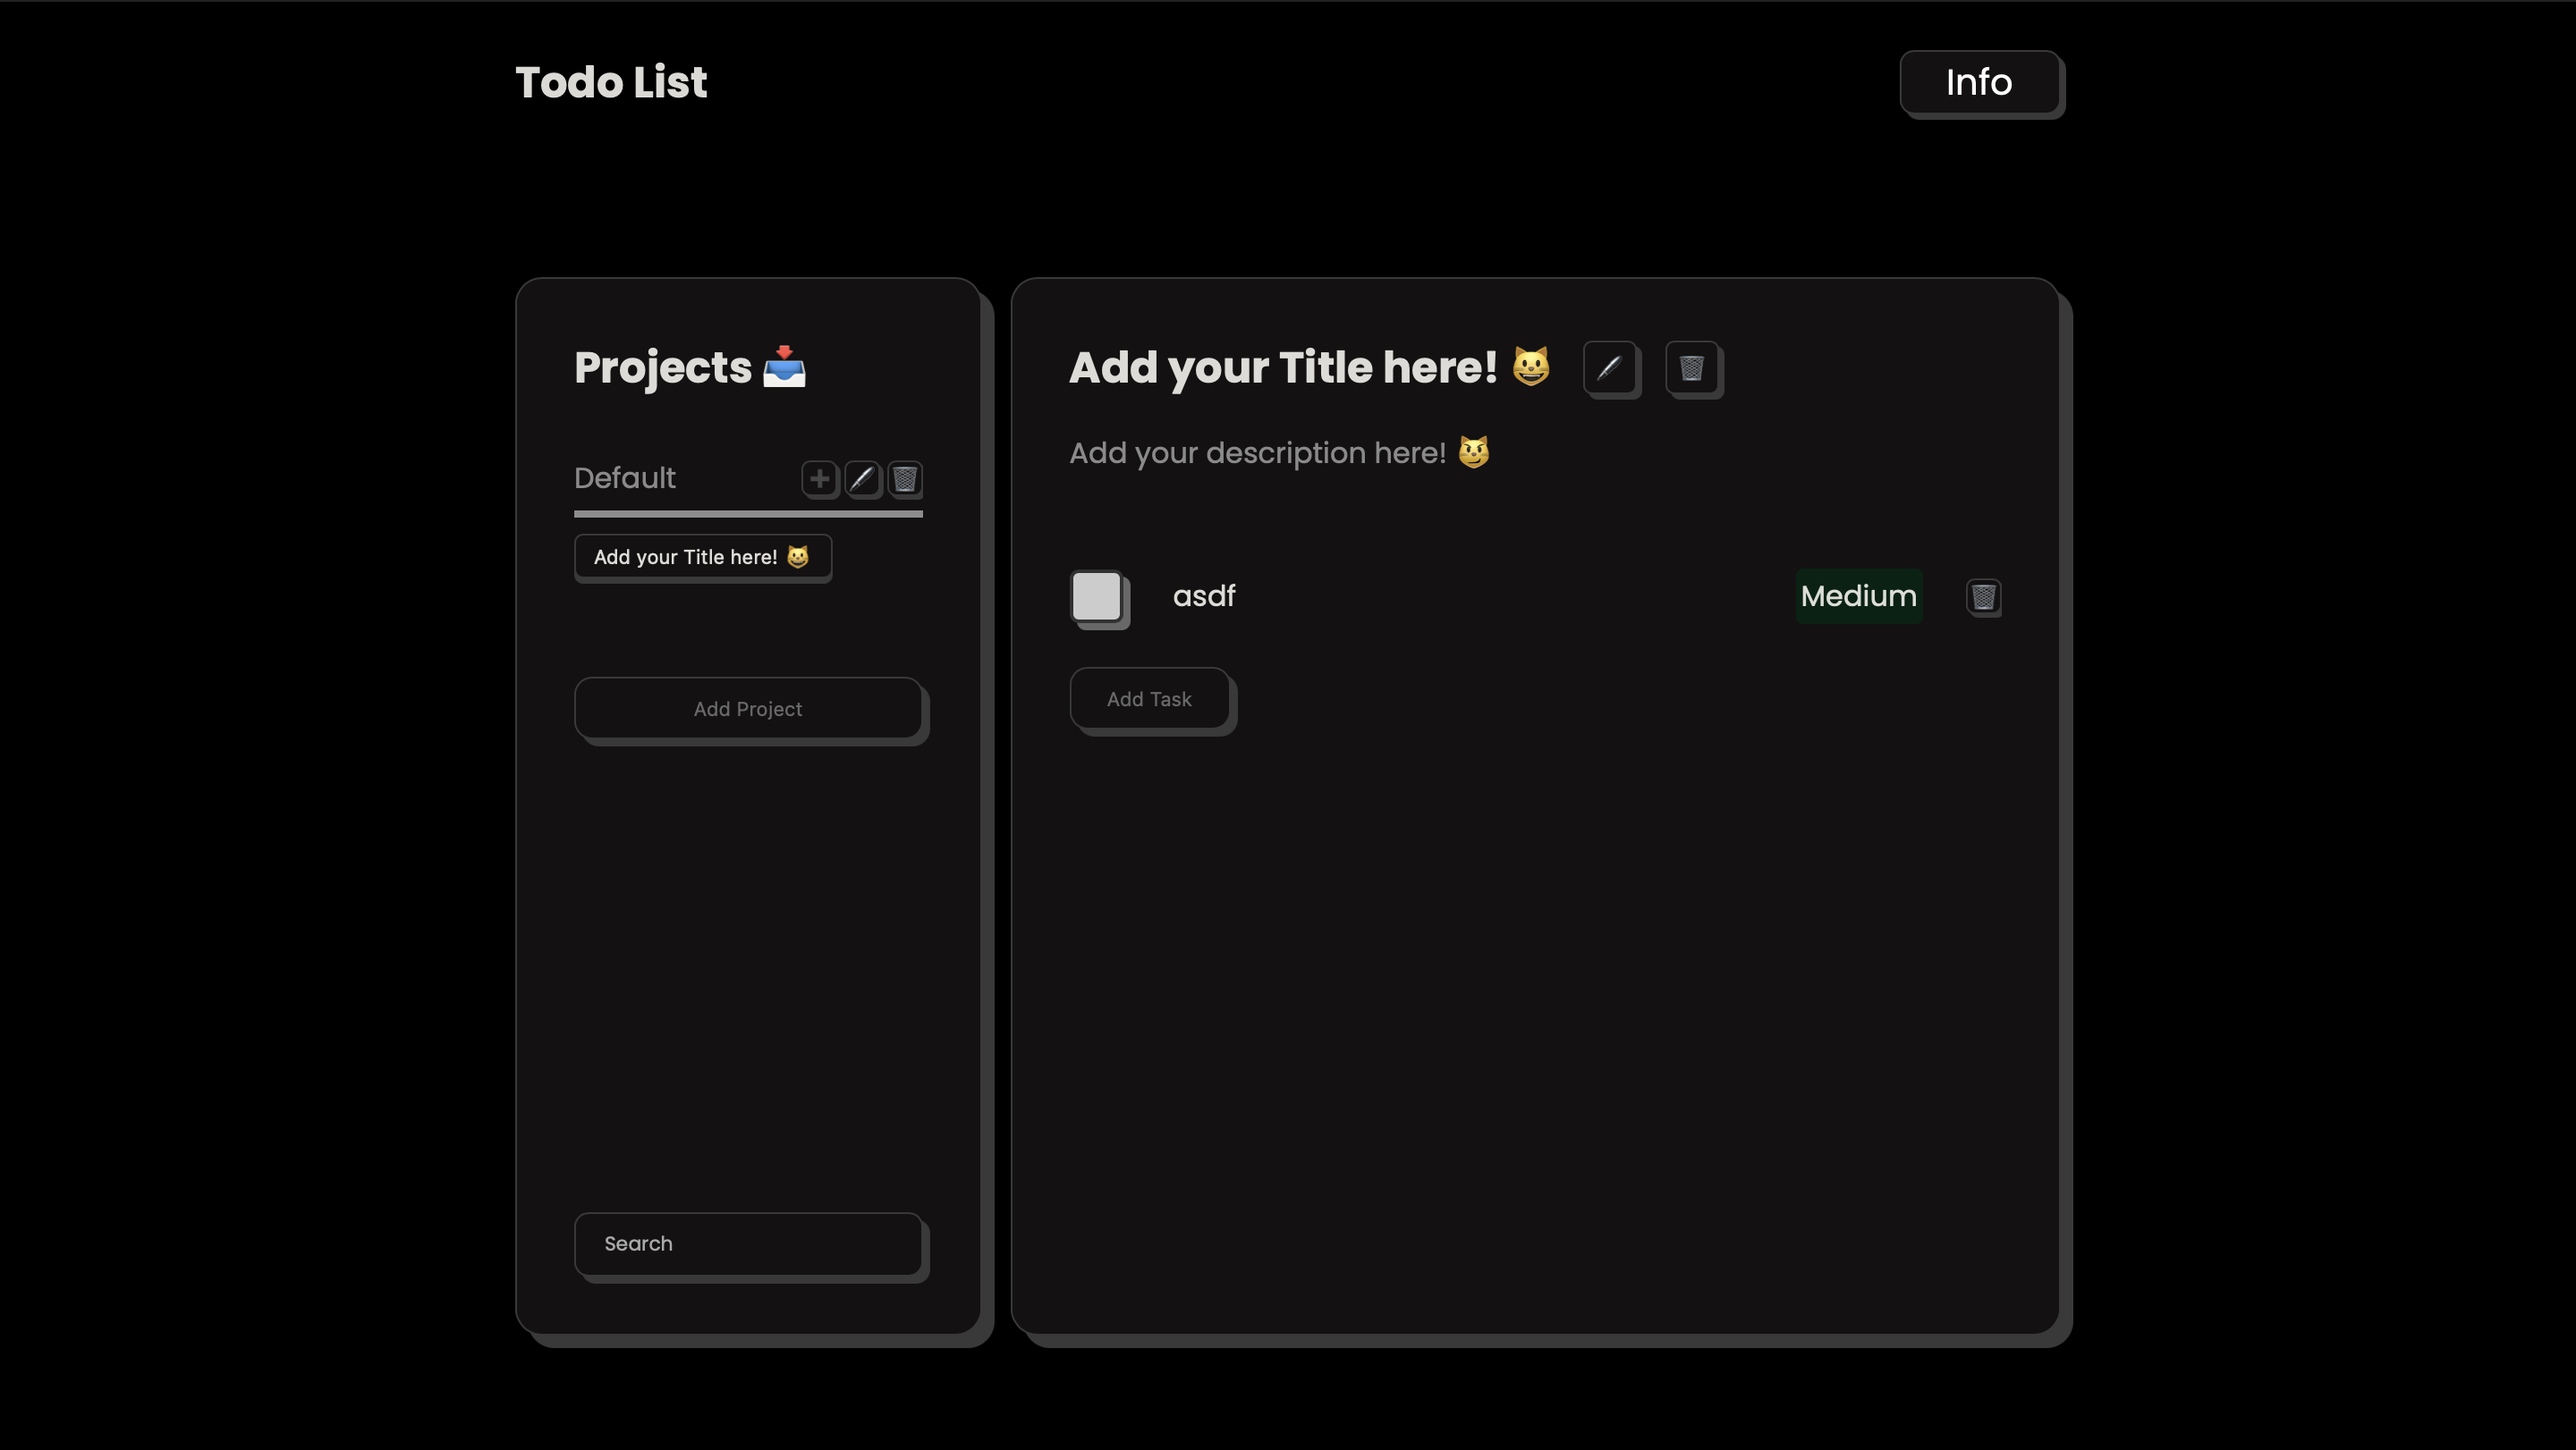
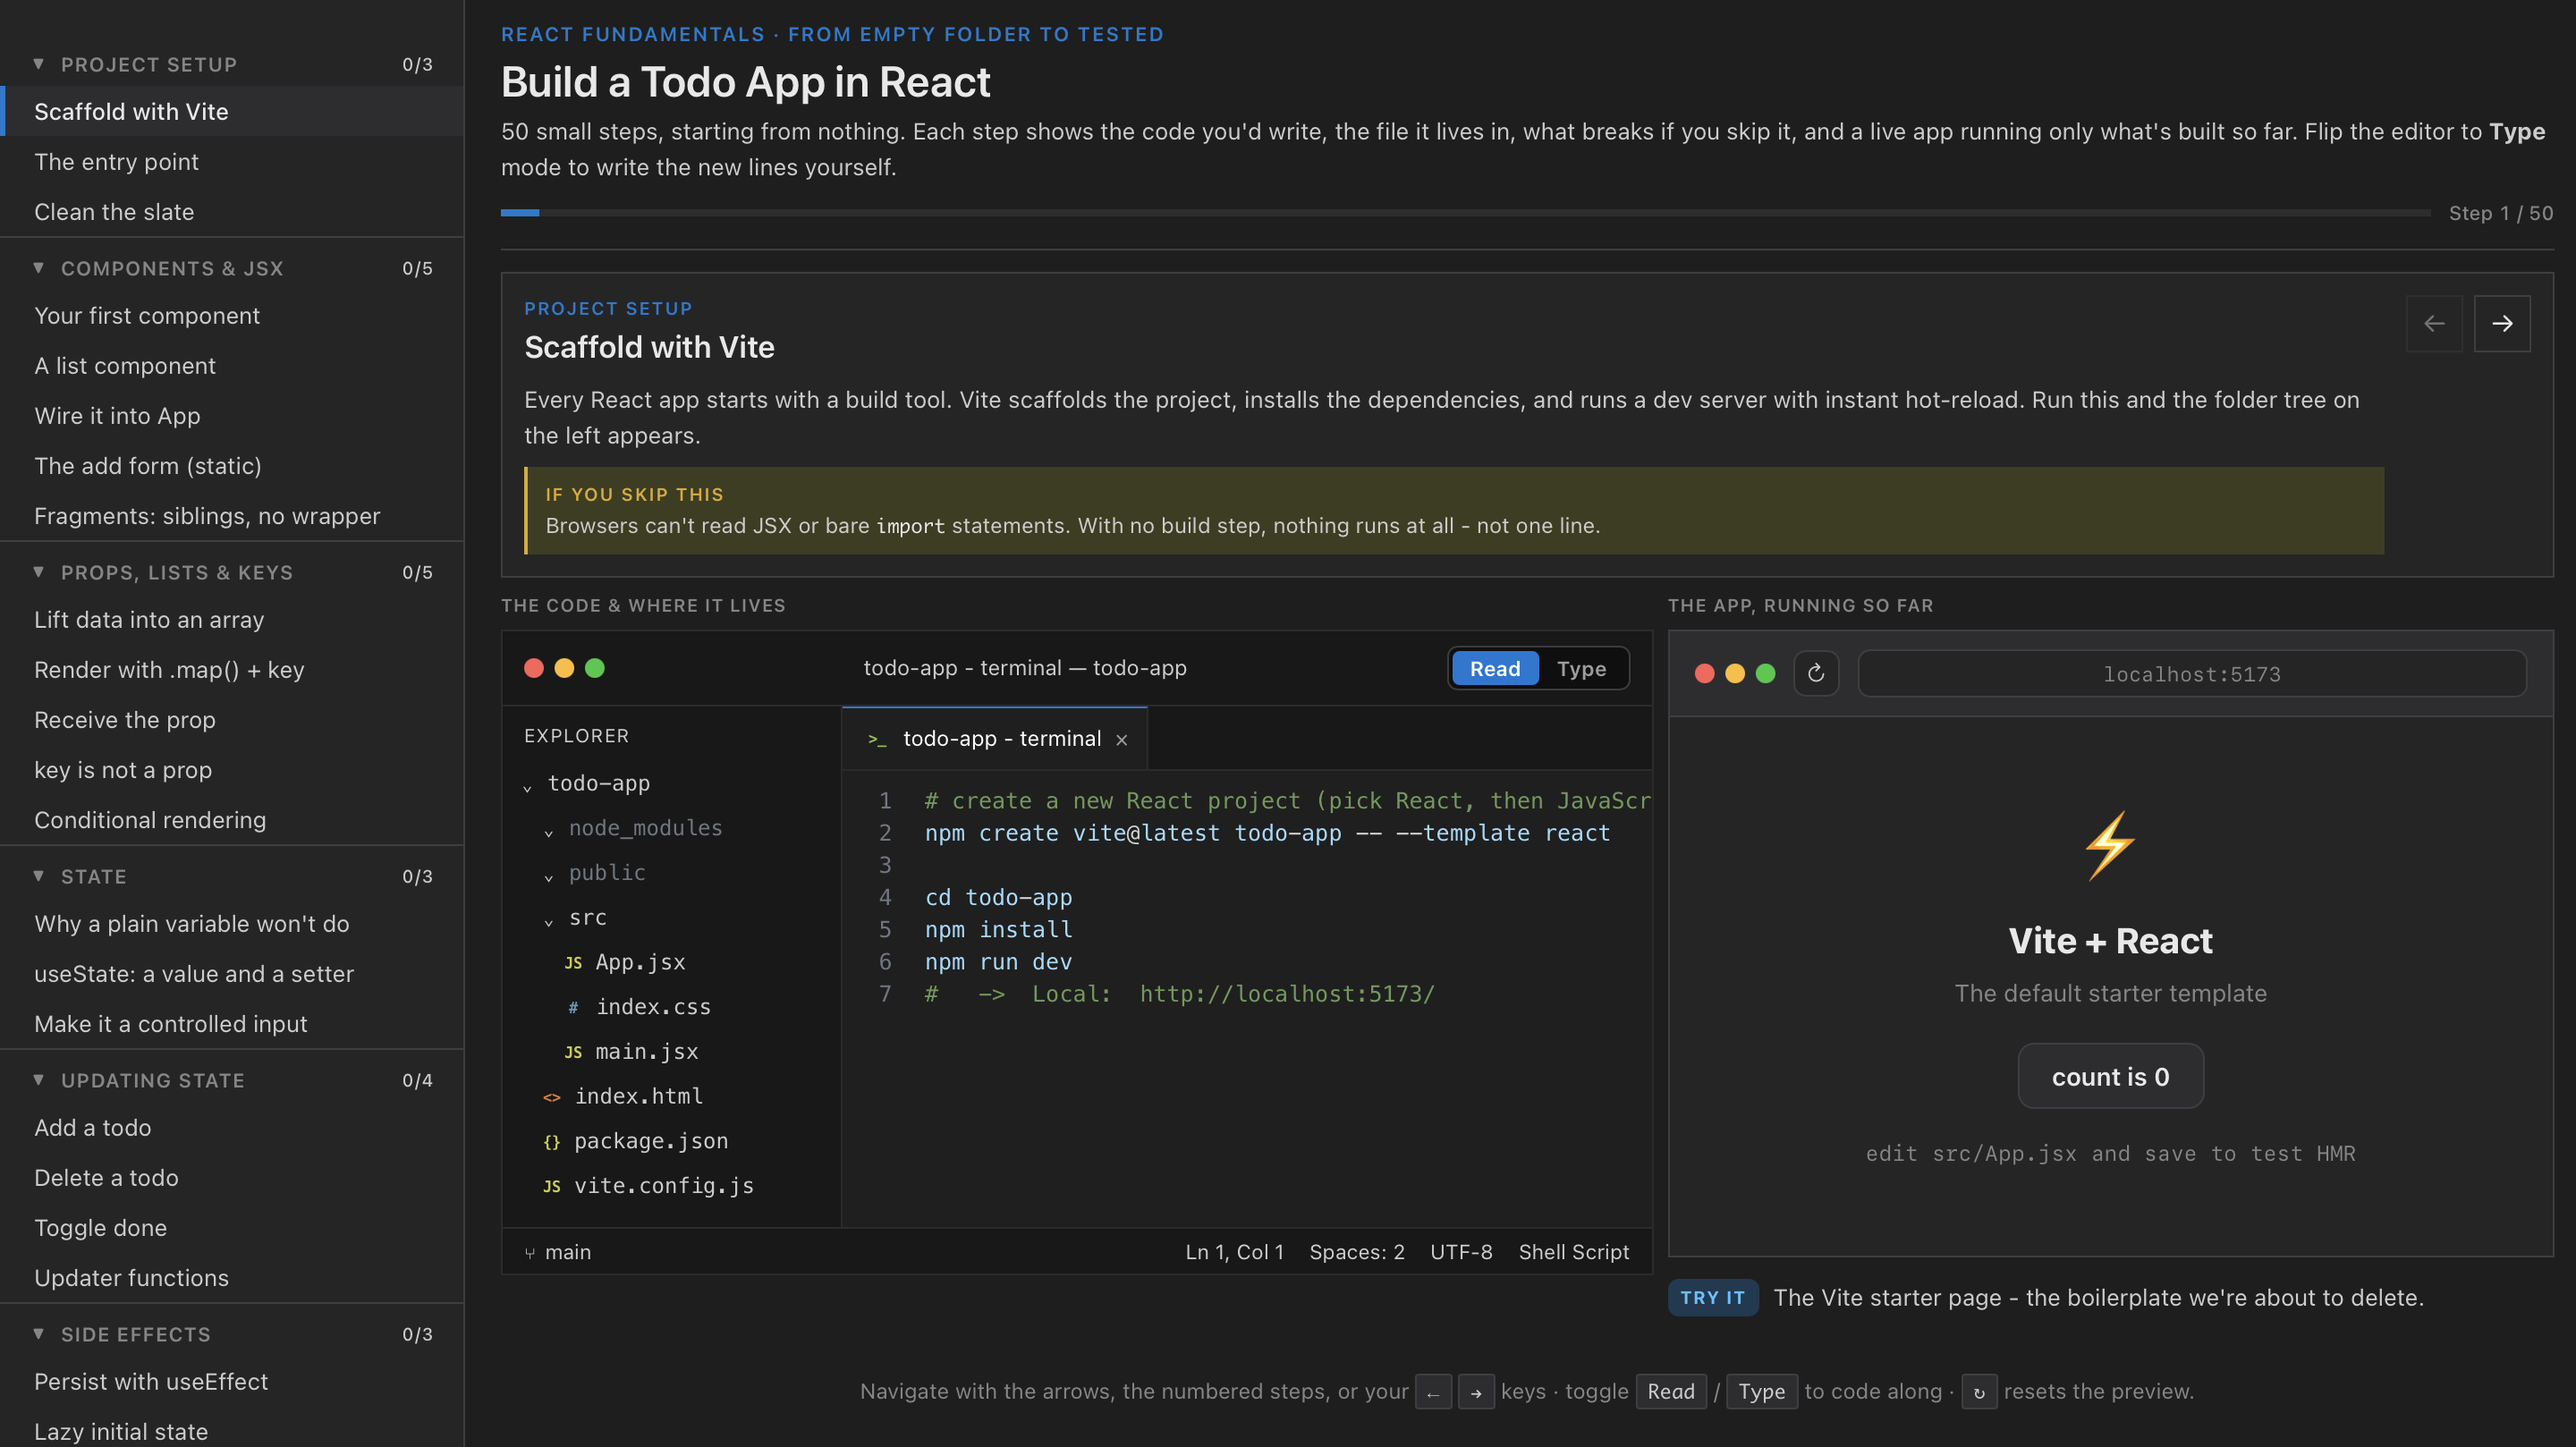
Project catalogue update

diff --git a/index.html b/index.html
@@ -295,14 +295,14 @@
         </div>
         <div class="w-full md:w-3/5 bg-body rounded-lg">
           <div class="md:pl-16">
-            <h3 class="text-white font-bold text-2xl mb-4 mt-8 md:mt-0">The Barebone Todo List App</h3>
-            <p class="section-paragraph">Advanced task management system engineered in pure vanilla JavaScript to demonstrate the full capability of native web APIs without framework dependencies. Features a sophisticated state management architecture, custom event delegation system, and optimized DOM manipulation algorithms. Implements browser-native storage solutions with data serialization, dynamic component rendering pipeline, and a hand-rolled reactive UI system.</p>
+            <h3 class="text-white font-bold text-2xl mb-4 mt-8 md:mt-0">Interactive React Tutorial</h3>
+            <p class="section-paragraph">Built an interactive React tutorial that guides learners through a 50-step todo app build, covering state, effects, routing, memoization, and testing. It combines a live preview, step-by-step code panels, and a type-along editor so each concept is learned by doing. The project uses real React features like useState, useReducer, useEffect, useContext, MemoryRouter, and fetch, and is inspired by The Odin Project Curriculum.</p>
             <!-- <a class="flex items-baseline mt-3 text-indigo-600 hover:text-indigo-900 focus:text-indigo-900" href="">
         <span>Learn more my project</span>
         <span class="text-xs ml-1">&#x279c;</span>
       </a> -->
             <div class="flex mt-9 space-x-6">
-              <a href=https://github.com/leisingha/Todo-List-App">
+              <a href="https://github.com/leisingha/react-todo-tutorial">
                 <svg xmlns="http://www.w3.org/2000/svg" width="24" height="24" viewBox="0 0 24 24">
                   <path
                     d="M12 0c-6.626 0-12 5.373-12 12 0 5.302 3.438 9.8 8.207 11.387.599.111.793-.261.793-.577v-2.234c-3.338.726-4.033-1.416-4.033-1.416-.546-1.387-1.333-1.756-1.333-1.756-1.089-.745.083-.729.083-.729 1.205.084 1.839 1.237 1.839 1.237 1.07 1.834 2.807 1.304 3.492.997.107-.775.418-1.305.762-1.604-2.665-.305-5.467-1.334-5.467-5.931 0-1.311.469-2.381 1.236-3.221-.124-.303-.535-1.524.117-3.176 0 0 1.008-.322 3.301 1.23.957-.266 1.983-.399 3.003-.404 1.02.005 2.047.138 3.006.404 2.291-1.552 3.297-1.23 3.297-1.23.653 1.653.242 2.874.118 3.176.77.84 1.235 1.911 1.235 3.221 0 4.609-2.807 5.624-5.479 5.921.43.372.823 1.102.823 2.222v3.293c0 .319.192.694.801.576 4.765-1.589 8.199-6.086 8.199-11.386 0-6.627-5.373-12-12-12z"
@@ -310,7 +310,7 @@
                 </svg>
               </a>
 
-              <a href=https://leisingha.github.io/Todo-List-App/>
+              <a href=https://leisingha.github.io/react-todo-tutorial//>
                 <img src="assets/link-svgrepo-com.svg" alt="External Link" width="24" height="24" style="filter: brightness(0) invert(1);">
               </a>
 
@@ -348,9 +348,9 @@
               </span>
             </div>
             <div class="terminal-body">
-              <span class="text-secondary font-poppins">Currently surviving my 5th year at Toronto Metropolitan University (formerly Ryerson) in Computer Science. I will be graduating in summer 2026, if caffeine holds out. Planning to persue a Master's in Data Science.<br><br>
+              <span class="text-secondary font-poppins">I'm currently doing my Masters at Toronto Metropolitan University (formerly Ryerson) in Digita Media. I will be graduating in summer 2027, if caffeine holds out.<br><br>
 I've interned at the Ontario Public Service, where I built accessible web products, and at the University Pension Plan, where I engineered automation pipelines and data analytics systems. Basically, I make the web usable, the data readable, and the workday shorter.<br><br>
-These days, I like building apps that look good, load fast, and make noise. Apart from academics and work, I wrestle for the TMU Wrestling team and I'm an amateur boxer fighting out of Cabbagetown Boxing Club, with aspirations to go pro.<br><br>
+These days, I like building apps that look good, load fast, and make noise. Apart from academics and work, I'm an amateur boxer fighting out of Cabbagetown Boxing Club, with aspirations to go pro.<br><br>
 At the end of the day, I'm trying to skillmaxx and put my earnest effort into the things I enjoy. As a wise man on X once said,</span>
               <blockquote class="border-l-4 pl-4 my-4 italic text-secondary font-poppins" style="border-color: #d1d1d1;">
                 The single greatest thing you can do for your sanity is to take life seriously. We live in a profoundly irony-poisoned society and you cut off 1/100th of what life can offer you by being a goofball. The jester may be near the king but he does not sit at the hand of the father
